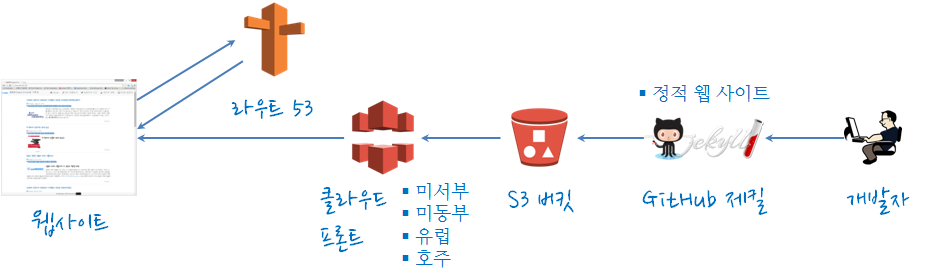
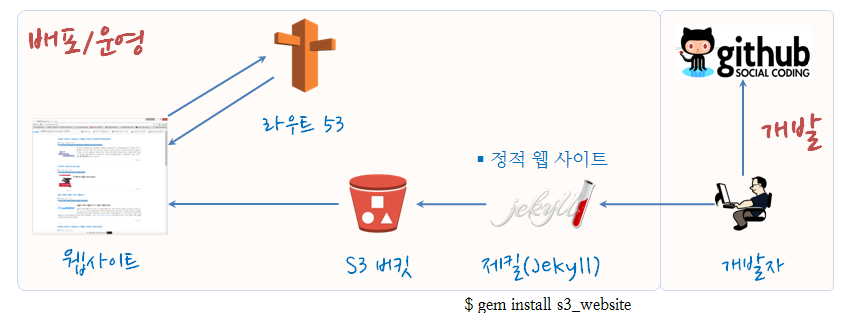
commit the initial draft of static website with S3

diff --git a/aws-static-web-s3.md b/aws-static-web-s3.md
@@ -12,7 +12,7 @@ minutes: 10
 
 ### 1. 아마존 웹 서비스를 활용한 정적 웹 서비스 
 
-#### 1.1. 정적 웹 서비스 아키텍쳐
+#### 1.1. 정적 웹 서비스 아키텍쳐 (최종)
 
 <img src="fig/aws-route53-cloudfront-s3-github-jekyll-architecture.png" width="100%" />
 
@@ -23,14 +23,26 @@ minutes: 10
 - **클라우드 프론트(CloudFront)**:
 - **라우트 53**:
 
-#### 1.2. S3를 활용한 정적 웹 서비스 구축 
+### 2. 순차적 아마존 웹 서비스 구축
 
-<img src="fig/aws-s3-website.png" width="50%" />
+#### 2.1. S3를 활용한 정적 웹 서비스 구축 
 
-- **S3 버킷**: `index.html` 파일을 포함한 정적 웹사이트 서비스를 위한 원데이터를 업로드한다.
-    - 권한(Permissions): `Add bucket policy`를 클릭하고 기본 정책을 저장한다.
-        - S3 버킷 정책에 대한 자주 사용하는 유형을 아마존 웹 서비스에서 잡아놔서 그중 적합한 것을 골라 사용한다. [참조: 아마존 웹 서비스 버킷 정책 예제](http://docs.aws.amazon.com/ko_kr/AmazonS3/latest/dev/example-bucket-policies.html)
+아마존 웹 서비스 중 S3 버킷을 생성해서 환경설정을 바꿔 정적 웹서비스 제공한다. 
+이를 위해서는 먼저 개발된 정적 웹 서비스가 있어야 된다.
+
+
+<img src="fig/aws-static-website-s3.png" width="50%" />
+
+
+#### 2.1.1. **S3 버킷**에 `index.html` 파일을 포함한 정적 웹사이트 서비스를 위한 원데이터를 업로드한다.
+
+#### 2.1.2. S3 버킷을 정적 웹서비스 제공을 위한 환경 설정
+
+- **S3 버킷**: 권한(Permissions)과 정적 웹사이트 호스팅(Static Website Hosting)에 적절한 설정을 한다.
     - 정적 웹사이트 호스팅(Static Website Hosting): `Enable website hosting`에 `index.html` 파일을 추가한다.
+        <img src="fig/aws-s3-bucket-website.png" width="40%" />
+    - 권한(Permissions): `Add bucket policy`를 클릭하고 기본 정책을 저장한다.
+        - S3 버킷 정책에 대한 자주 사용하는 유형을 아마존 웹 서비스에서 잡아놔서 그중 적합한 것을 골라 사용한다. 
 
 ~~~ {.input}
 {
@@ -46,10 +58,16 @@ minutes: 10
   ]
 }
 ~~~
-<img src="fig/aws-s3-bucket-website.png" width="40%" />
+
+[참조: 아마존 웹 서비스 버킷 정책 예제](http://docs.aws.amazon.com/ko_kr/AmazonS3/latest/dev/example-bucket-policies.html)
 
 
-#### 1.3. 사용자 지정 도메인으로 정적 웹서비스로 개발된 S3에 정적 웹 사이트 설정
+#### 2.2. 사용자 지정 도메인을 정적 웹서비스로 개발된 S3에 정적 웹 사이트에 연결
+
+> #### AWS에서 지정된 끝점(endpoint) 대신 도메인 적용 {.callout}
+>
+> `s3-website-ap-northeast-1.amazonaws.com.` &rarr; `rur-ple.xwmooc.org.`
+>
 
 사용자 구매한 지정 도메인으로 정적 웹서비스로 개발된 S3에 정적 웹 사이트 설정하기 위해서 다음 절차를 거친다.
 
@@ -58,7 +76,7 @@ minutes: 10
 1. 아마존 라우트53 호스팅 영역 생성하고 환경설정한다.
 1. DNS 서비스를 제공하는 아마존 라우트53으로 설정한다.
 
-<img src="fig/aws-route53-s3-static-website.png" width="40%" />
+<img src="fig/aws-static-website-s3-route53.png" width="30%" />
 
 라우트53 &rarr; `호스트 존(Hosted Zones)` 에서 해당 도메인을 선택하고 `Go to Record Sets` &rarr; `Create Record Set`에서 도메인 명칭과 S3 버킷 설정된 것을 연결한다.
 
@@ -69,47 +87,44 @@ S3 버킷 명칭을 `rur-ple.xwmooc.org` 으로 설정했으면, `Name`은 `rur-
 [참고: 사용자 지정 도메인으로 정적 웹 사이트 설정](http://docs.aws.amazon.com/ko_kr/AmazonS3/latest/dev/website-hosting-custom-domain-walkthrough.html)
 
 
+#### 2.3. 정적 웹 사이트 배포 자동화
 
+제킬로 개발한 정적 웹 사이트를 AWS 파일 업로드 기능을 이용해서 S3 버킷에 업로드해서 올렸다. 
+변경사항이 발생하거나 신규 기능이 추가될 때 매번 파일을 업로드하는 것은 때로는 시간 낭비일 수 있고 효율적이지 못하다.
 
+**[s3_website](https://github.com/laurilehmijoki/s3_website)**를 사용하면 파일 업로드하는 것을 개발 완료시점에 `s3_website push` 명령어로 즉시 S3 버킷에 배포할 수 있다.
 
-### 2. S3와 클라우드프론트(Cloudfront) 연동
+<img src="fig/aws-static-website-s3-route53-jekyll.png" width="30%" />
 
-정적 웹 서비스를 개발해서 S3에 저장하고 이를 클라우드프론트(CloudFront)를 통해 배포하는 방식은 다음과 같다.
+- `gem install s3_website` 명령어로 `s3_website`를 설치한다.
+    - `gem install`을 사용하기 위해서 루비가 사전에 설치되었는지 점검한다.
+- `s3_website cfg create` 명령어를 실행하면 `s3_website.yml` 파일이 생성된다.
+    - `s3_id`, `s3_secret`, `s3_bucket`, `s3_endpoint`를 설정한다.
+    - `s3_id`, `s3_secret`, `s3_bucket` 정보는 IAM에서 별도 생성된 사용자 정보를 사용한다. [Amazon IAM user creation for single S3 bucket access](https://rbgeek.wordpress.com/2014/07/18/amazon-iam-user-creation-for-single-s3-bucket-access/)을 참조해서 보안을 강화한다.
+    - `s3_endpoint`는 S3 버킷이 배포된 지역정보(Region)를 사용한다.
 
-<img src="fig/aws-s3-cloudfront-website.png" width="100%" />
-
-1. S3 버킷에 개발된 정적 웹서비스를 업로드 합니다.
-1. 클라우드프론트 배포 서비스로 가서 Web(웹), RTMP(동영상) 중 웹을 선택하고 설정을 합니다.
-    - `Origin Settings`에 정적 웹 서비스를 올린 S3 버킷을 선택합니다.
-1. 배포가 완료되면 `Domain Name`에 `http://dsssmxxsjebsd.cloudfront.net/` 와 같이 생성된 것을 확인한다.
-1. (크롬)웹 브라우져로 접속해서 단축키 F12 혹은 메뉴 &rarr; 도구(L) &rarr; 개발자 도구(D) 를 통해 *개발자 도구*를 실행하고 `Network`에서 `Header` 패널에서 `X-cache: Hit from cloudfront`를 확인한다.
-
-
-
-### 1.4. 정적 웹 사이트 배포
-
-<img src="fig/aws-route53-cloudfront-s3-architecture.png" width="70%" />
-
-
-[참조: Static Sites using AWS S3, CloudFront, and Route 53](https://sysadmincasts.com/)
-
-S3 버킷에 정적 웹사이트를 자동으로 넣는 방법
-- [참고: GitHub Manage an S3 website](https://github.com/laurilehmijoki/s3_website)
-- [참고: Setting up AWS credentials](https://github.com/laurilehmijoki/s3_website/blob/master/additional-docs/setting-up-aws-credentials.md)
-
-
-### 3. Elastic IP 변경
-
-공개형 IP (Public IP)를 IP 주소에 연계한다.
-
-
-### 4. 웹 콘텐츠 올리기
-
-웹서비스 콘텐츠 올리는 권한 부여.
-
-~~~ {.shell}
-$  chown -R ubuntu /var/www/
+~~~{.shell}
+s3_id=AKFKSKSDK8DSDSMFJA
+s3_secret=0fsd0fdsf0sd9f0fs0dBKmG6BfOVPYoHs
+s3_bucket=rur-ple.xwmooc.org
+s3_endpoint: us-east-1
 ~~~
+
+- `s3_website push --dry-run` 명령어로 설정의 완전성을 사전에 확인한다.
+- `s3_website push` 명령어로 AWS S3 버킷에 제킬로 생성된 `_site` 정적 웹 서비스를 밀어 넣는다.
+
+~~~ {.input}
+xwmooc@xwmooc-VirtualBox:~/rur-ple$ ls -al
+total 16
+drwxrwxr-x  3 xwmooc xwmooc 4096  9월 12 00:27 .
+drwxr-xr-x 24 xwmooc xwmooc 4096  9월 12 00:26 ..
+-rw-r--r--  1 xwmooc xwmooc 1367  9월 12 00:26 s3_website.yml
+drwxrwxr-x 11 xwmooc xwmooc 4096  9월 12 00:27 _site
+~~~
+
+- [참고: Episode #50 - Static Sites using AWS S3, CloudFront, and Route 53 (3/5)](https://sysadmincasts.com/episodes/50-static-sites-using-aws-s3-cloudfront-and-route-53-3-5)
+- [참고: Regions and Endpoints](http://docs.aws.amazon.com/general/latest/gr/rande.html#s3_region)
+- [참고: Amazon IAM user creation for single S3 bucket access](https://rbgeek.wordpress.com/2014/07/18/amazon-iam-user-creation-for-single-s3-bucket-access/)
 
 
 

diff --git a/aws-static-web-optimization.md b/aws-static-web-optimization.md
@@ -113,3 +113,5 @@ $  chown -R ubuntu /var/www/
 
 
 
+
+
